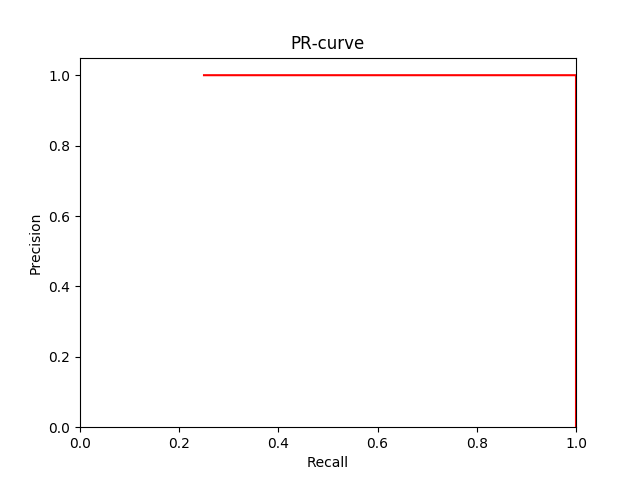
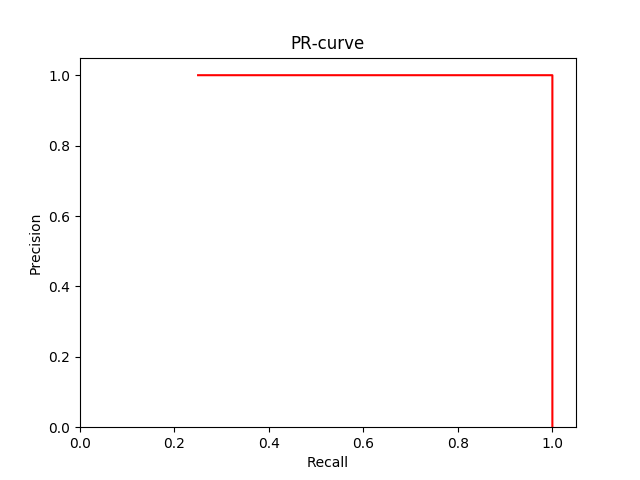
xlim

diff --git a/Content_based_image_retrieval/PRcurve.py b/Content_based_image_retrieval/PRcurve.py
@@ -50,7 +50,7 @@ def PRcurve(imgs_paths, imgs_color_hists, query_color_hist, topk, query_ground_t
     for idx in tp_idx:
         tp[idx:] += 1
 
-    sample_size = np.arange(1, topk+1)       # vector containing values for each cutoff, except 0 for which precision is not well defined 
+    sample_size = np.arange(1, topk+1)       # vector containing values for each cutoff, except 0 for which precision is not well defined
 
     fp = false_positives(sample_size, tp)
     fn = false_negatives(gt_size, tp)
@@ -102,7 +102,7 @@ if __name__ == "__main__":
         plt.xlabel('Recall')
         plt.ylabel('Precision')
         plt.ylim([0.0, 1.05])
-        plt.xlim([0.0, 1.0])
+        plt.xlim([0.0, 1.05])
         plt.savefig(f'{output_img_folder}/pr_curve_query_{i+1}')
 
         # flush plot
